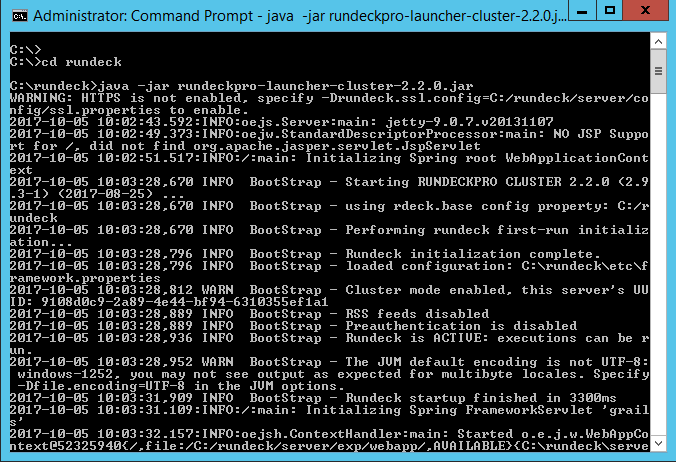
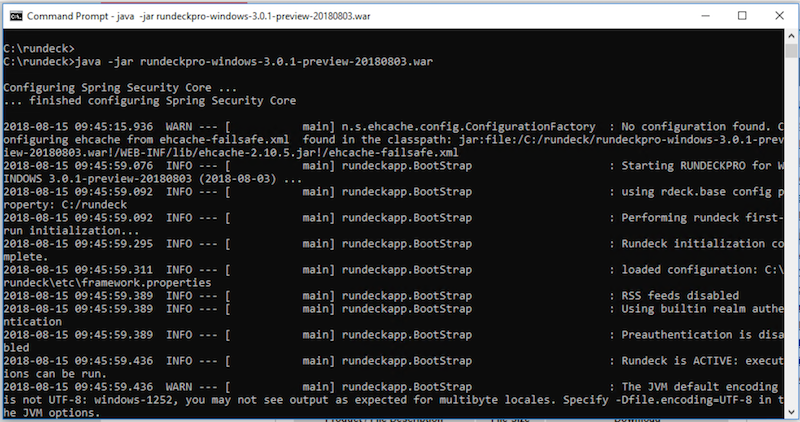
- Fixing issue windows install docs (make references to 2.x) - Moving CredSSP settings from windows install to powershell plugin

diff --git a/en/administration/install/windows.md b/en/administration/install/windows.md
@@ -7,61 +7,75 @@ http://support.rundeck.com/customer/en/portal/articles/2819414-install-rundeck-p
 http://support.rundeck.com/customer/en/portal/articles/2522223-enable-credssp-authentication-windows-
 --->
 
-Note: these instructions are for installing a single instance "cluster" (one cluster member only) for evaluation or standalone usage. 
 
-## Install Rundeck Pro
-
-This guide will install Rundeck PRO as a Service on a Windows Server. It uses the Rundeck Pro launcher installer (Jar file).
+This guide will install Rundeck PRO or Open Source as a Service on a Windows Server. It uses the Rundeck launcher installer (WAR file).
  
-* Download the latest version of Rundeck PRO Cluster launcher here:  http://download.rundeck.com/versions.html
-* Choose a root directory (e.g. C:\rundeck). 
-* Place rundeckpro-launcher-cluster-X.X.X.jar in that directory
-* Go to the RDECK_BASE (e.g. C:\rundeck) folder and launch the installation of rundeck.
+* Download the latest Rundeck launcher [OSS](http://rundeck.org/downloads.html) or [PRO](http://download.rundeck.com/versions.html)   
+* Choose a root directory (e.g. C:\rundeck). This will be your  `%RDECK_BASE%`
+* Place `rundeckpro-launcher-[edition]-X.X.X.war` in that directory
+* Go to the `%RDECK_BASE%` (e.g. `C:\rundeck) folder and launch the installation of rundeck.
 
 ```
-cd C:\rundeck
-java -jar rundeckpro-launcher-cluster-X.X.X.jar
+set RDECK_BASE=C:\rundeck
+cd %RDECK_BASE%
+java -jar rundeckpro-launcher-[edition]-X.X.X.war
 ```
+
 
 ![Windows launcher](../../figures/windows-launcher.png)
 
-* After Rundeck PRO started, stop the process.
-* Create a bat file (e.g. start_rundeck.bat) and place it under %RDECK_BASE%
+
+* After Rundeck started, stop the process.
+* Create a bat file (e.g. start_rundeck.bat) and place it under `%RDECK_BASE%`
+
 
 ```
 set CURDIR=%~dp0
 call %CURDIR%etc\profile.bat
-java %RDECK_CLI_OPTS% %RDECK_SSL_OPTS% -jar    
-rundeckpro-launcher-cluster-X.X.X.jar --skipinstall -d  >> %CURDIR%\var\logs\service.log  2>&1
+java %RDECK_CLI_OPTS% %RDECK_SSL_OPTS% -jar rundeckpro-launcher-[edition]-X.X.X.war --skipinstall -d  >> %CURDIR%\var\logs\service.log  2>&1
 ```
 
-* Download nssm.exe from http://nssm.cc/
-* Place the executable under %RDECK_BASE% (you can place it elsewhere, but for the sake of the example let's use always the root dir)
+* Download [nssm.exe](http://nssm.cc/)
+* Place the executable under `%RDECK_BASE%` (you can place it elsewhere, but for the sake of the example let's use always the root dir)
 * Open a prompt and issue these commands (Administrator mode required to install a service)
 
 ```
     cd C:\rundeck
     nssm.exe install RUNDECK
 ```
-* the GUI pops up, set "path" as %RDECK_BASE%\start_rundeck.bat , startup directory  as %RDECK_BASE% (optionally set "low" on the process tab, under priority, to avoid server cpu spike when starting rundeck)
+* the GUI pops up, set "path" as `%RDECK_BASE%\start_rundeck.bat` , startup directory  as `%RDECK_BASE%` (optionally set "low" on the process tab, under priority, to avoid server cpu spike when starting rundeck)
 
 ![NSSM Installer](../../figures/nssm-installer.png)
+
 
 * Go to the service management console (services.msc) and you'll find RUNDECK listed as a service. Starting it will start the rundeck process.
 
 ![Service Management Console](../../figures/service-management-console.png) 
  
+
+* set JVM memory heap on `%RDECK_BASE%\etc\profile`. 
+Replace the `RDECK_CLI_OPTS` variable with the amount of memory that you need, for example:
+
+```
+....
+
+set RDECK_CLI_OPTS=-Xms512m -Xmx2048m
+set RD_LIBDIR=%RDECK_BASE%\tools\lib
+```
+ 
+
 ### Login to the GUI
  
-By default, Rundeck will be installed in port 4440. To access Rundeck, go to the following URL: http://servername:4440.
+By default, Rundeck will be installed in port 4440. To access Rundeck, go to the following URL: `ttp://servername:4440`.
  
 Normally, it is necessary to modify the `grails.serverURL` property in `%RDECK_BASE%\server\config\rundeck-config.properties` to access the GUI.
 Change `grails.serverURL` to the server name or IP. You will need to restart
 the Rundeck service for the change to take effect.
 
-After the restart, you can access the GUI at http://servername:4440/
+After the restart, you can access the GUI at `http://servername:4440/`
 
 ![Login page](../../figures/login-page.png)
+
 
 The default username and password is "admin"
 
@@ -69,23 +83,6 @@ The default username and password is "admin"
 
 Use the Service Windows GUI to start/stop/restart the instance
  
-### Install License File
-
-Go to the GUI and click on the "No License Key File is installed" button
-
-![No license key](../../figures/no-license-key.png)
-
-Then click on "Upload License File"
-
-![Upload license](../../figures/upload-license.png)
-
-Then select the license file (.key file)  and press "Update License File"
-
-![License](../../figures/license.png)
-
-Finally, it is necessary to change the "Passive Mode" to "Active"
-
-![Active mode](../../figures/active-mode.png)
 
 ## Folder Structure
  
@@ -104,14 +101,14 @@ Finally, it is necessary to change the "Passive Mode" to "Active"
 +---server
 |   +---config
 |   |       jaas-loginmodule.conf
+|   |       log4j.properties => This file defines the logging configuration for rundeck.
 |   |       realm.properties => Property file user directory when PropertyFileLoginModule is used
 |   |       rundeck-config.properties => This is the primary Rundeck webapp configuration file. Defines default loglevel, datasource configuration, and GUI customization.
 |   |       ssl.properties => To enable SSL access to rundeck
-|   |      
 |   +---data => H2 database
 |   |       grailsdb.mv.db
-|   +---exp
 |   +---lib
+|   |       rundeck-core-3.0.x.jar => rundeck core 
 |   +---logs => Rundeck logging 
 |   |       rundeck.access.log => access to rundeck
 |   |       rundeck.api.log => Api calls
@@ -126,84 +123,4 @@ Finally, it is necessary to change the "Passive Mode" to "Active"
 |   \---work
 +---tools=> rd-acl client (to manage ACL validation)
 \---var   => Executions Logs folder
-```
-
-## Enable CREPSSP Authentication On Windows Domain
-
-### On the Rundeck server
-
-#### Enable CredSSP
-
-Open a powershell windows and run:
-
-```
-Enable-WSManCredSSP -Role "Client" -DelegateComputer "*.something.com"
-```
-
-Where `something.com` is the DNS domain of the target computer
-
-or
-
-```
-Enable-WSManCredSSP -Role "Client" -DelegateComputer "*"
-```
-
-
-#### Allow Delegating Fresh Credentials
-
-* Click **Start**, type **mmc** and then click **OK**.
-* Click **File and then click **Add/Remove Snap-in**.
-* Click **Group Policy Object** and then click **Add**.
-* Select **Local Computer** and then click **Finish**.
-* Go to **Computer Policy\Administrative Templates\System\Credentials Delegation\Allow Delegating Fresh Credentials** → Set to **enabled** 
-
-![Enable delegating fresh credentials](../../figures/allow-delegating-fresh-credentials-1.png)
-
-* Add **WSMAN/*** to list of computers and check the box for **Concatenate OS defaults with input above**.
-
-![Add servers to list](../../figures/allow-delegating-fresh-credentials-2.png)
-
-#### Enable CredSSP authentication on Winrm Client
-
-Open a CMD Prompt as an Administrator user and execute:
-
-```
-winrm set winrm/config/client/auth @{CredSSP="true"}
-```
-
-You need to have winrm service configured and running.
-
-
-### On the remote node
-
-#### Enable CredSSP
-
-Open a powershell windows and run:
-
-```
-Enable-WSManCredSSP -Role "Server"
-```
-
-#### Make sure that you enable the CredSSP on WinRM Service settings
-
-To get the WinRm Service config:
-
-```
-winrm get winrm/config/service
-```
-
-To enable the CredSSP:
-
-```
-winrm set winrm/config/service/auth @{CredSSP="true"}
-```
-
-### Troubleshooting
-
-If you are using a non-administrator user (or a not- domain-administrator user) to execute command to remote nodes, you need to set up the access on the remote machine ( to the user or some of its groups, eg: Domain User group).
-
-To add permissions to non-administrator user to execute remote commands:
-
-```
-Set-PSSessionConfiguration Microsoft.Powershell -ShowSecurityDescriptorUI
 ```

diff --git a/en/administration/projects/node-execution/powershell.md b/en/administration/projects/node-execution/powershell.md
@@ -118,6 +118,88 @@ Increase the concurrent shell issue:
 set-item wsman:\localhost\shell\maxshellsperuser 50 
 ```
 
+
+## Enable CredSSP Authentication On Windows Domain
+
+### On the Rundeck server
+
+#### Enable CredSSP
+
+Open a powershell windows and run:
+
+```
+Enable-WSManCredSSP -Role "Client" -DelegateComputer "*.something.com"
+```
+
+Where `something.com` is the DNS domain of the target computer
+
+or
+
+```
+Enable-WSManCredSSP -Role "Client" -DelegateComputer "*"
+```
+
+
+#### Allow Delegating Fresh Credentials
+
+* Click **Start**, type **mmc** and then click **OK**.
+* Click **File and then click **Add/Remove Snap-in**.
+* Click **Group Policy Object** and then click **Add**.
+* Select **Local Computer** and then click **Finish**.
+* Go to **Computer Policy\Administrative Templates\System\Credentials Delegation\Allow Delegating Fresh Credentials** → Set to **enabled** 
+
+![Enable delegating fresh credentials](../../../figures/allow-delegating-fresh-credentials-1.png)
+
+* Add **WSMAN/*** to list of computers and check the box for **Concatenate OS defaults with input above**.
+
+![Add servers to list](../../../figures/allow-delegating-fresh-credentials-2.png)
+
+#### Enable CredSSP authentication on Winrm Client
+
+Open a CMD Prompt as an Administrator user and execute:
+
+```
+winrm set winrm/config/client/auth @{CredSSP="true"}
+```
+
+You need to have winrm service configured and running.
+
+
+### On the remote node
+
+#### Enable CredSSP
+
+Open a powershell windows and run:
+
+```
+Enable-WSManCredSSP -Role "Server"
+```
+
+#### Make sure that you enable the CredSSP on WinRM Service settings
+
+To get the WinRm Service config:
+
+```
+winrm get winrm/config/service
+```
+
+To enable the CredSSP:
+
+```
+winrm set winrm/config/service/auth @{CredSSP="true"}
+```
+
+### Troubleshooting
+
+If you are using a non-administrator user (or a not- domain-administrator user) to execute command to remote nodes, you need to set up the access on the remote machine ( to the user or some of its groups, eg: Domain User group).
+
+To add permissions to non-administrator user to execute remote commands:
+
+```
+Set-PSSessionConfiguration Microsoft.Powershell -ShowSecurityDescriptorUI
+```
+
+
 ### Troubleshooting
 
 If you get "Access is denied" error when you try to access to a shared folder on the remote node, it is possible that you must use the [CredSSP autentication](http://support.rundeck.com/customer/portal/articles/2522223-enable-credssp-authentication-windows).
@@ -163,11 +245,5 @@ Set-NetConnectionProfile -InterfaceIndex [INTERFAZ_INDEX] -NetworkCategory Priva
 
 It could be necessary to change the user’s log-on in tomcat service when the remote connection does not work:
 
-![Tomcat settings](../../figures/powershell-troubleshooting.png)
-
-
-For further information about winrm and PowerShell plug-in see:
-
-* [http://support.rundeck.com/customer/en/portal/articles/1939728-powershell-plugins](http://support.rundeck.com/customer/en/portal/articles/1939728-powershell-plugins)
-* [https://github.com/rundeck-plugins/rundeck-winrm-plugin](https://github.com/rundeck-plugins/rundeck-winrm-plugin)
+![Tomcat settings](../../../figures/powershell-troubleshooting.png)
 

diff --git a/en/administration/install/jar.md b/en/administration/install/jar.md
@@ -18,14 +18,14 @@ Use the executable war as an alternative to a system package:
 1. Copy the executable war to the installation directory.
 
     ~~~~~~~ {.bash}
-    cp rundeck-3.0.0.war $RDECK_BASE
+    cp rundeck-3.0.x.war $RDECK_BASE
     ~~~~~~~
 
-1. Change directory and run the jar.
+1. Change directory and run the WAR.
 
     ~~~~~~~ {.bash}
     cd $RDECK_BASE    
-    java -Xmx4g -jar rundeck-3.0.0.war
+    java -Xmx4g -jar rundeck-3.0.x.war
     ~~~~~~~
 
 1. Wait for the Started message.
@@ -79,10 +79,10 @@ When you need to update rundeck and you can not find the relevant section on the
 The executable war can take a number of options to specify how the server should start. If you execute with a "-h" you will see the usage information:
 
 ~~~~~~~~~~~~~~~~~~~~~~~~~~~~~~~~~~~~~~~~~~~~~~~~~ {.bash}
-java -Xmx4g -jar rundeck-3.0.0.jar -h
+java -Xmx4g -jar rundeck-3.0.x.war -h
 ~~~~~~~~~~~~~~~~~~~~~~~~~~~~~~~~~~~~~~~~~~~~~~~~~
 
-    usage: java [JAVA_OPTIONS] -jar rundeck-launcher.jar  [-c PATH] [-d]
+    usage: java [JAVA_OPTIONS] -jar rundeck-launcher.war  [-c PATH] [-d]
            [--installonly] [-s PATH] [-b PATH] [-p PATH] [-h] [-x PATH]
            [--skipinstall] [--serverdir PATH] [--datadir PATH]
 
